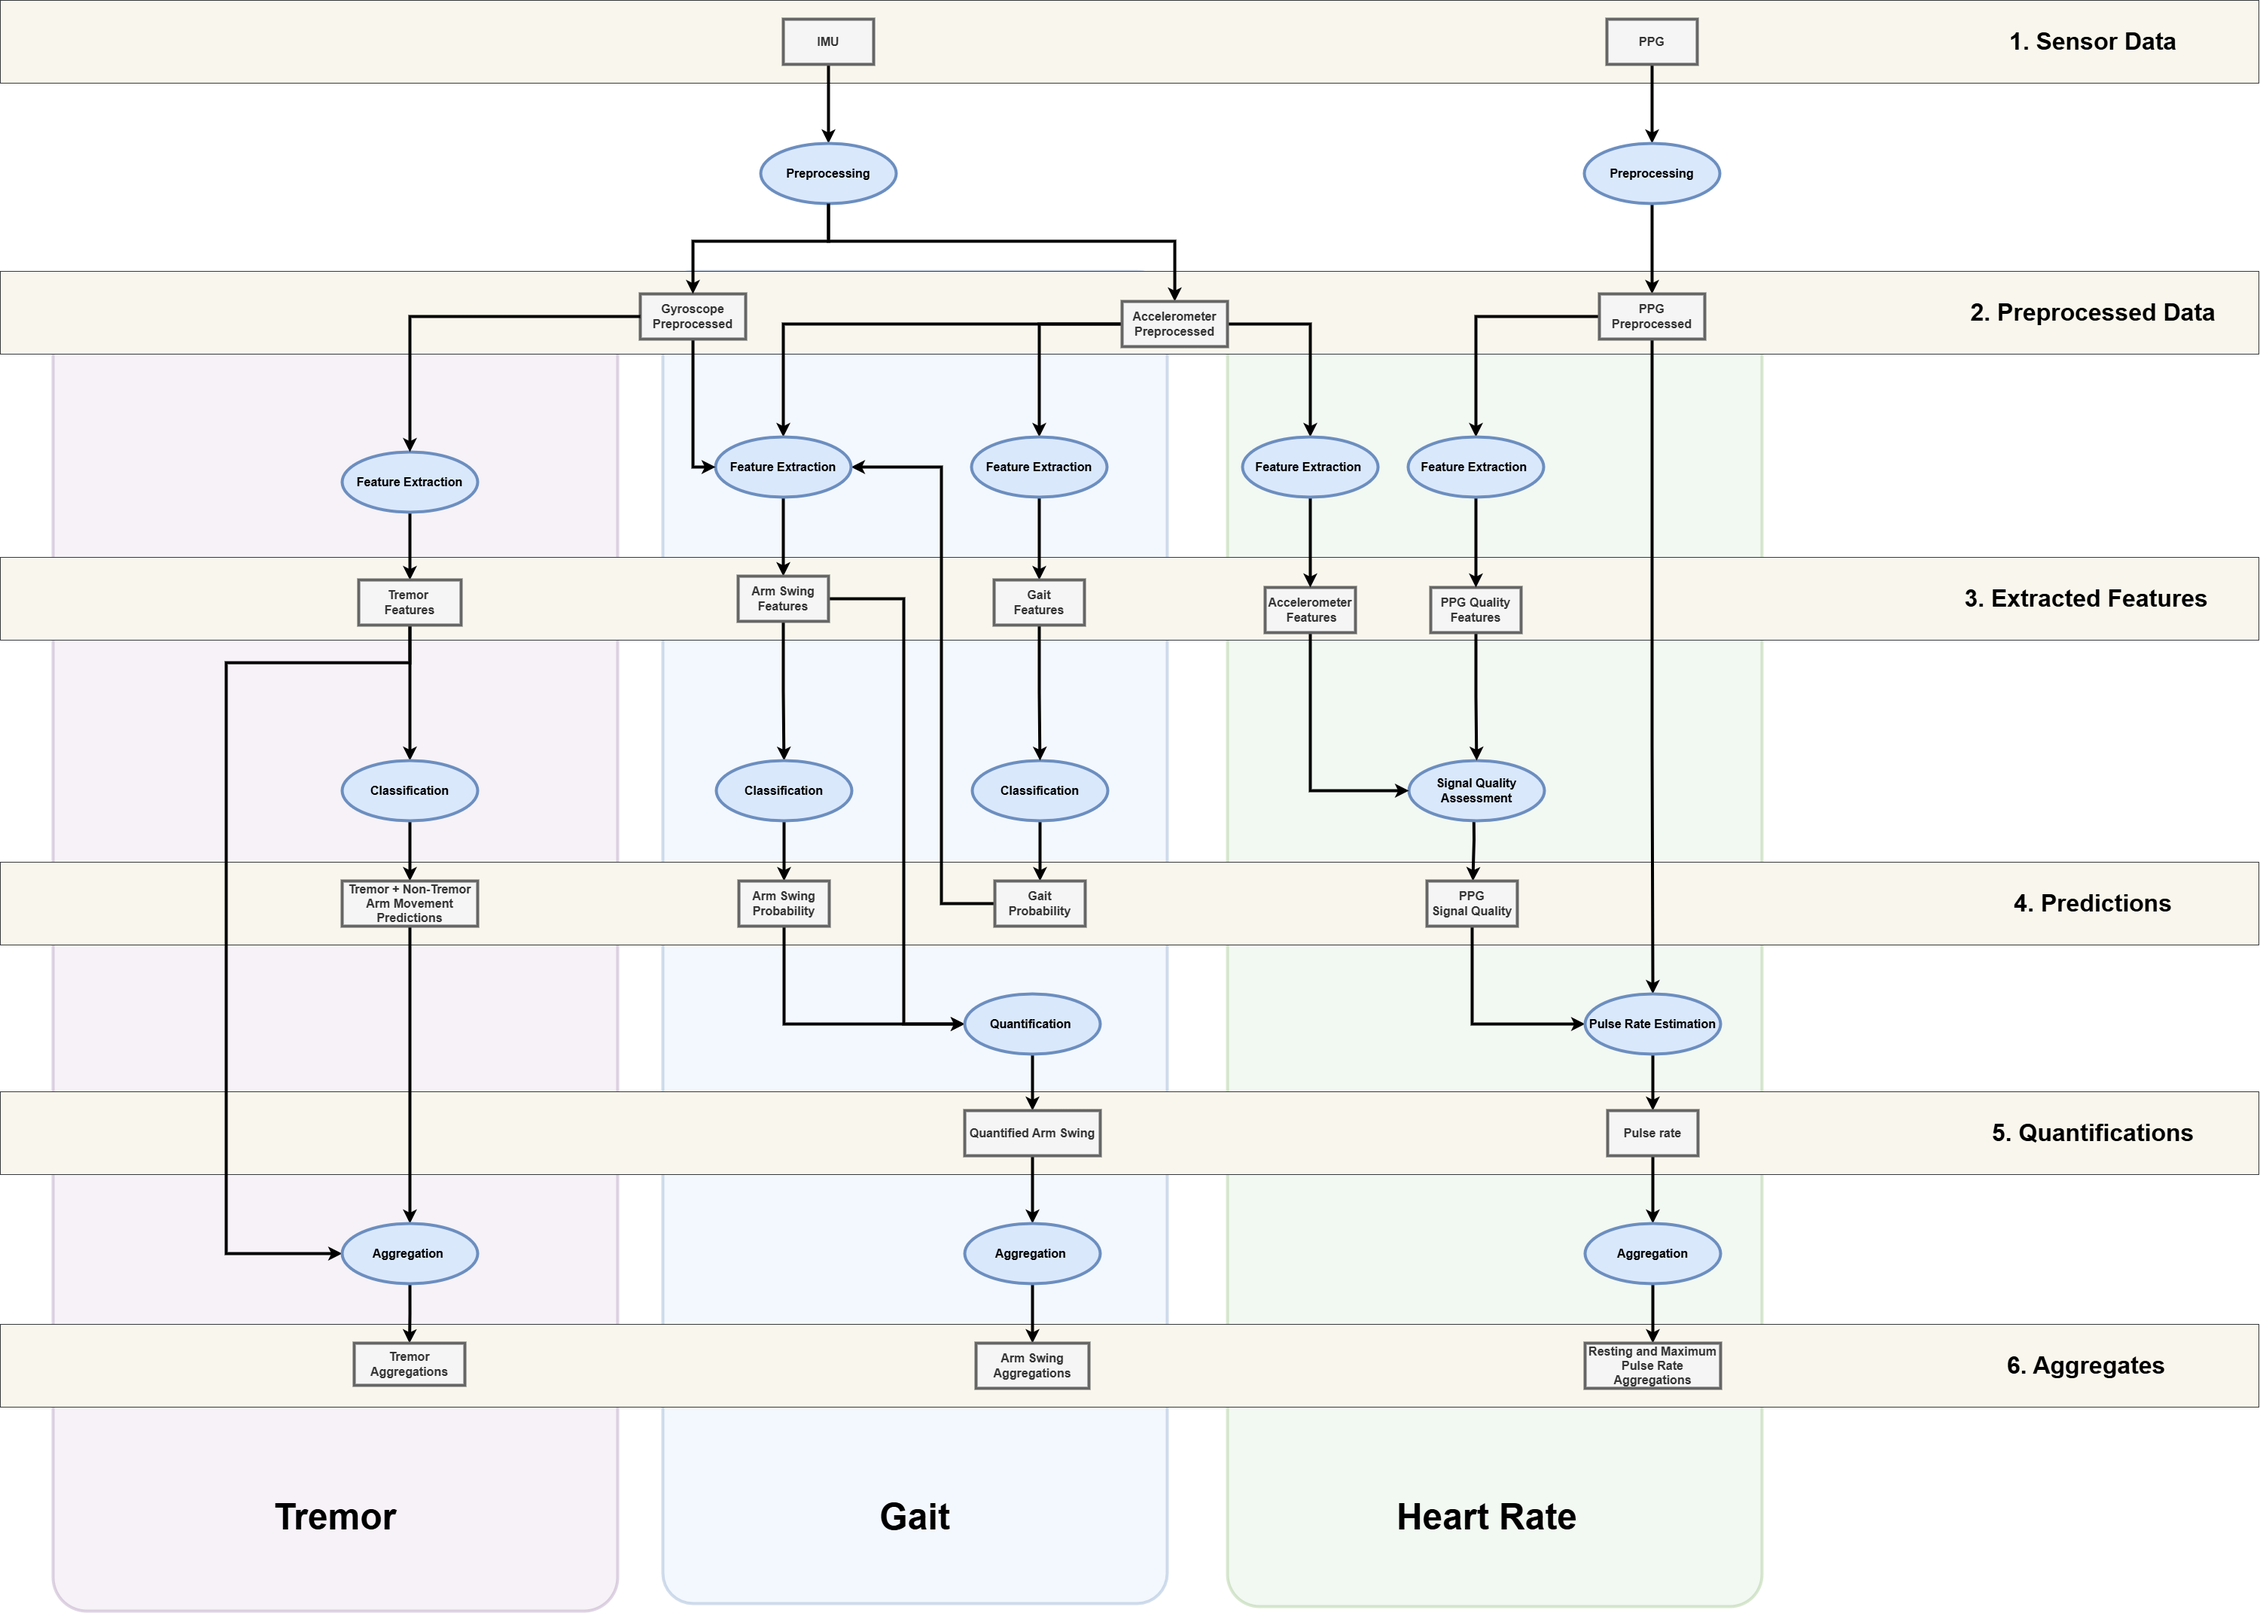
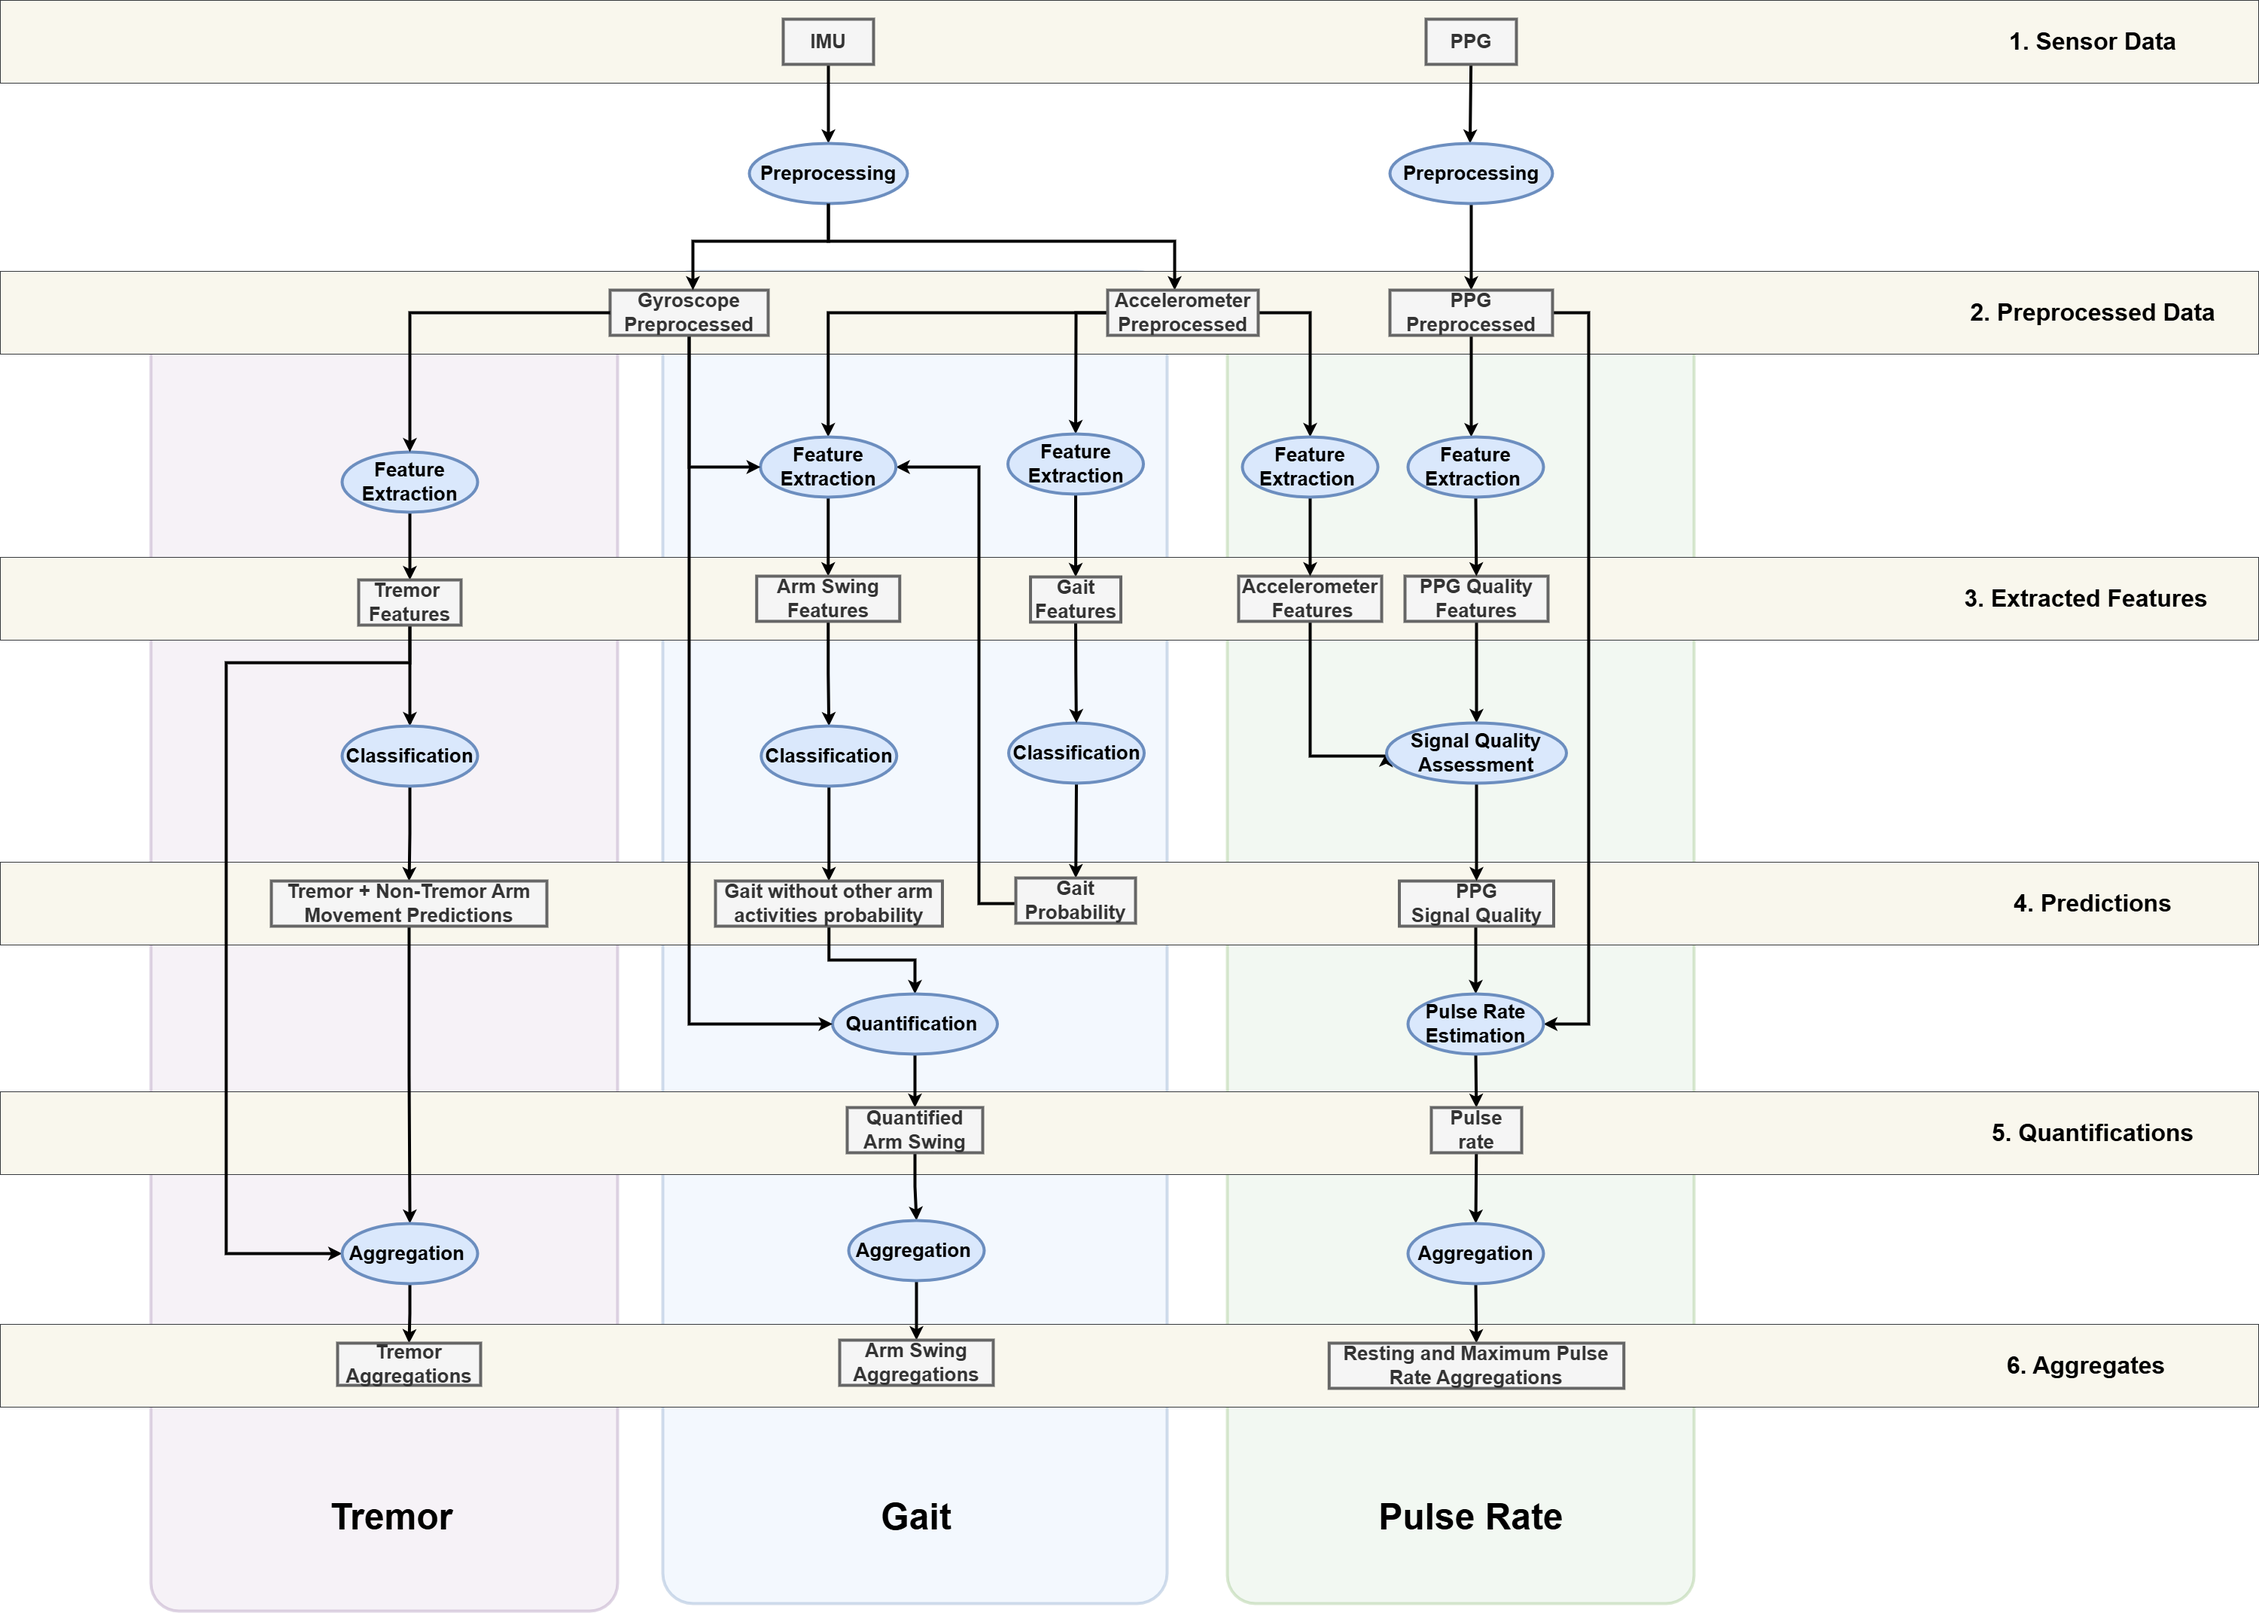
Change architecture, adjust readme to discussion points, customize css for dataframe width

diff --git a/docs/source/_static/custom.css b/docs/source/_static/custom.css
@@ -1,0 +1,5 @@
+.dataframe {
+    overflow-x: auto;
+    display: block;
+    max-width: 100%;
+}

diff --git a/docs/conf.py b/docs/conf.py
@@ -49,3 +49,6 @@ exclude_patterns = ["build", "Thumbs.db", ".DS_Store"]
 # a list of builtin themes.
 #
 html_theme = "sphinx_rtd_theme"
+
+html_static_path = ['source/_static']
+html_css_files = ['custom.css']

diff --git a/README.md b/README.md
@@ -50,11 +50,11 @@ ParaDigMa can best be understood by categorizing the sequential processes:
 <br/>
 ParaDigMa contains the following processing pipelines (each using the processes described above): 
 
-| Pipeline | Input | Output (quantification) | Output (aggregation) | 
-| ---- | ---- | ---- | ---- |
-| Arm swing during gait | Wrist accelerometer and gyroscope data | Gait probability, arm swing probability, arm swing range of motion (RoM) | Typical & maximum arm swing RoM | 
-| Tremor | Wrist gyroscope data | Tremor probability, tremor power | % tremor time, typical & maximum tremor power | 
-| Pulse rate | Wrist PPG and accelerometer data | PPG signal quality, pulse rate | Resting & maximum pulse rate | 
+| Pipeline | Input | Output Classification | Output Quantification | Output Aggregation | 
+| ---- | ---- | ---- | ---- | ---- |
+| **Arm swing during gait** | Wrist accelerometer and gyroscope data | Gait probability, gait without other arm activities probability | Arm swing range of motion (RoM) | Typical & maximum arm swing RoM | 
+| **Tremor** | Wrist gyroscope data | Tremor probability | Tremor power | % tremor time, typical & maximum tremor power |   
+| **Pulse rate** | Wrist PPG and accelerometer data | PPG signal quality | Pulse rate | Resting & maximum pulse rate | 
 
 ## Installation
 
@@ -78,28 +78,23 @@ Specific requirements include:
 | Pipeline               | Sensor Configuration                                                                                                       | Context of Use                                                                                             |
 |------------------------|--------------------------------------------------------------------------------------------------------------------------|------------------------------------------------------------------------------------------------------------|
 | **All**               | - Sensor position: wrist-band on most or least affected side (validated for both, but different sensitivity for measuring disease progression for tremor and arm swing during gait).  <br> - Sensor orientation: orientation as described in [Coordinate System](https://biomarkersparkinson.github.io/paradigma/guides/coordinate_system.html). | - Population: persons with PD. <br> - Data collection protocol: passive monitoring in daily life. |
-| **Arm swing during gait** | - Accelerometer: minimum sampling rate of 100 Hz, minimum range of ± 4 g, minimum resolution of xx g. <br> - Gyroscope: minimum sampling rate of 100 Hz, minimum range of ± 100 degrees/sec, minimum resolution of xx degrees/sec. | - Population: no walking aid, no severe dyskinesia in the watch-sided arm. <br> - Compliance: for weekly measures: at least three compliant days (with ≥10 hours of data between 8 am and 10 pm), and at least xx hours of gait. |
-| **Tremor**            | - Gyroscope: minimum sampling rate of 100 Hz, minimum range of ± xx degrees/sec, minimum resolution of xx degrees/sec. | - Compliance: for weekly measures: at least three compliant days (with ≥10 hours of data between 8 am and 10 pm). |
-| **Pulse rate**        | - PPG*: minimum sampling rate of 30 Hz, green LED. <br> - Accelerometer: minimum sampling rate of 100 Hz, minimum range of ± xx g, minimum resolution of xx g. | - Population: no rhythm disorders (e.g. atrial fibrillation, atrial flutter). <br> - Compliance: for weekly measures: minimum average of 12 hours of data per day. |
+| **Arm swing during gait** | - Accelerometer: minimum sampling rate of 100 Hz, minimum range of ± 4 g. <br> - Gyroscope: minimum sampling rate of 100 Hz, minimum range of ± 100 degrees/sec. | - Population: no walking aid, no severe dyskinesia in the watch-sided arm. <br> - Compliance: for weekly measures: at least three compliant days (with ≥10 hours of data between 8 am and 10 pm), and at least 2 minutes of arm swing. |
+| **Tremor**            | - Gyroscope: minimum sampling rate of 100 Hz, minimum range of ± 100 degrees/sec. | - Compliance: for weekly measures: at least three compliant days (with ≥10 hours of data between 8 am and 10 pm). |
+| **Pulse rate**        | - PPG*: minimum sampling rate of 30 Hz, green LED. <br> - Accelerometer: minimum sampling rate of 100 Hz, minimum range of ± 4 g. | - Population: no rhythm disorders (e.g. atrial fibrillation, atrial flutter). <br> - Compliance: for weekly measures: minimum average of 12 hours of data per day. |
 
-While the toolbox is designed to work on any wrist sensor device which fulfills the requirements, 
-we have currently verified its performance on data from the Gait-up Physilog 4 (arm swing during gait & tremor) and the Verily Study Watch (all pipelines). 
+\* The processing of PPG signals is currently based on the blood volume pulse (arbitrary units) obtained from the Verily Study Watch, and we are currently testing the applicability of the pipeline to other PPG devices.
+
+> [!WARNING]
+> While the toolbox is designed to work on any wrist sensor device which fulfills the requirements, 
+we have currently verified its performance on data from the Gait-up Physilog 4 (arm swing during gait & tremor) and the Verily Study Watch (all pipelines). Furthermore, the specifications above are the minimally validated requirements. For example, while ParaDigMa works with accelerometer and gyroscope data sampled at 50 Hz, its effect on subsequent processes has not been empirically validated. Similarly, a lower range of sensor data can be processed, but specific features may be affected and impact the outcomes.
 <br/>
 
-We have included support for [TSDF](https://biomarkersparkinson.github.io/tsdf/) as format for loading and storing sensor data. TSDF enables efficient data storage with added metadata. However, ParaDigMa does not require a particular method of data storage and retrieval. Please see our tutorial [Data preparation](https://biomarkersparkinson.github.io/paradigma/tutorials/data_preparation.html) for examples of loading TSDF and other data formats.
+We have included support for [TSDF](https://biomarkersparkinson.github.io/tsdf/) as format for loading and storing sensor data. TSDF enables efficient data storage with added metadata. However, ParaDigMa does not require a particular method of data storage and retrieval. Please see our tutorial [Data preparation](https://biomarkersparkinson.github.io/paradigma/tutorials/data_preparation.html) for examples of loading TSDF and other data formats into memory.
 
 ## Scientific validation
 
 The pipelines were developed and validated using data from the Parkinson@Home Validation study [[Evers et al. 2020]](https://pmc.ncbi.nlm.nih.gov/articles/PMC7584982/) 
-and the Personalized Parkinson Project [[Bloem et al. 2019]](https://pubmed.ncbi.nlm.nih.gov/31315608/).
-
-Details for the different pipelines can be found in the associated scientific publications:
-
-| Pipeline | Reference |
-| ---- | ---- | 
-| Arm swing during gait | #LJWE: INSERT REF | 
-| Tremor | #LJWE: INSERT REF | 
-| Pulse rate | #LJWE: INSERT REF | 
+and the Personalized Parkinson Project [[Bloem et al. 2019]](https://pubmed.ncbi.nlm.nih.gov/31315608/). Details and validation of the different pipelines shall be shared in upcoming scientific publications.
 
 ## Contributing
 

diff --git a/docs/license.md b/docs/license.md
@@ -1,2 +1,2 @@
-```{include} ../LICSENSE
+```{include} ../LICENSE
 ```
